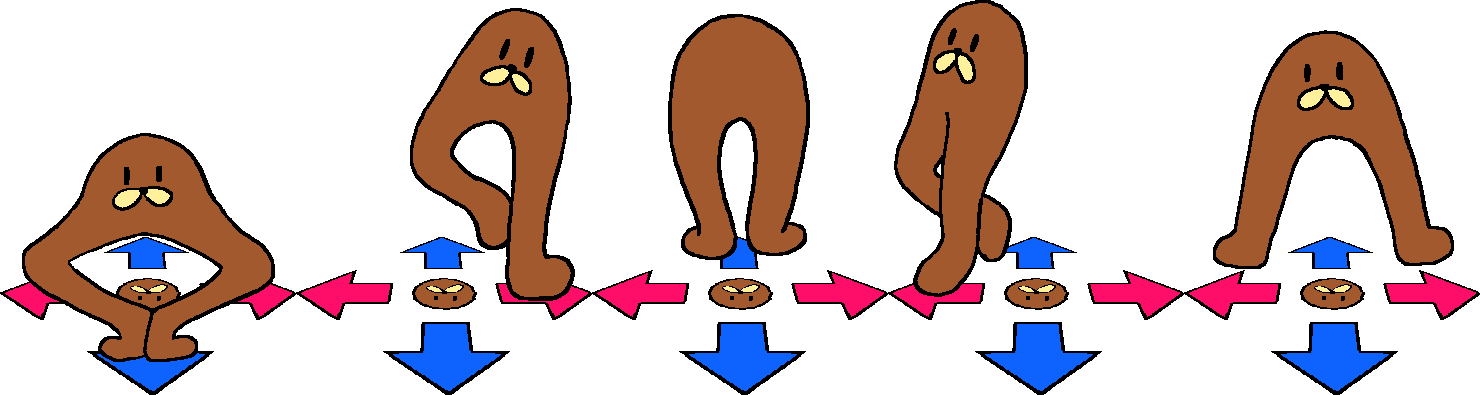
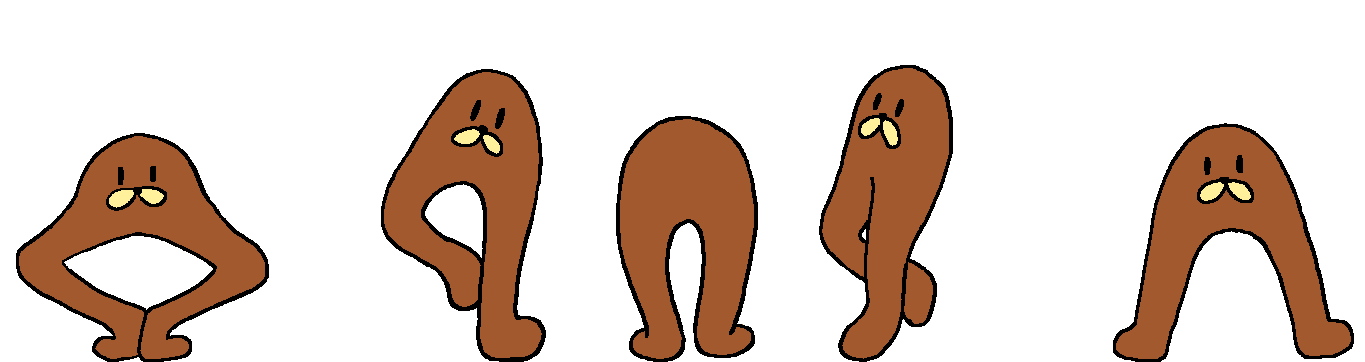
Make gondola bounce to the beat, minor refactoring

diff --git a/js/scenes/gonddr.js b/js/scenes/gonddr.js
@@ -13,6 +13,7 @@ class GonDDR extends Phaser.Scene {
 
 		this.hit_frame;   // Sprite of hit window
 		this.gondola;
+		this.dance_pad;
 
 		this.combo = 0;
 		this.score = 0;
@@ -60,15 +61,13 @@ class GonDDR extends Phaser.Scene {
 
 		this.feedback_array = [];
 
-		this.tweens.add({ targets:this.gondola, alpha:1, duration:1, delay:10});
-
 	}
 
 	// Main game loop
 	update () {
 		let time_ms = Date.now() - this.start_time;
 
-		let this_tick = this.time_to_tick(time_ms);
+		let this_tick = ms_to_tick(time_ms, this.tps);
 
 		this.handle_beat(this_tick);
 		this.update_arrows(this_tick);
@@ -84,7 +83,7 @@ class GonDDR extends Phaser.Scene {
 		// Set starting BPM, beats per bar, and ticks per beat
 		this.bpm = this.song.properties.starting_bpm;  // Beats per minute
 		this.bpb = this.song.properties.beats_per_bar; // Beats per bar (determines fall time)
-		this.tpb = this.tps/(this.bpm/60)                // Ticks per beat
+		this.tpb = this.tps/(this.bpm/60)              // Ticks per beat
 
 		console.log("BPM: " + this.bpm + " Beats per bar: " + this.bpb);
 		console.log("Ticks per beat: " + this.tpb);
@@ -105,39 +104,50 @@ class GonDDR extends Phaser.Scene {
 	init_game_objects() {
 
 		// Create sprites
-		this.hit_frame = this.add.sprite(100, ARROW_HIT_Y, 'hit_frame', 0);
-		this.gondola = this.add.sprite(GONDOLA_X, GONDOLA_Y, 'gondola', Gondola_Poses.Neutral);
-		this.gondola.alpha=0;
+		this.hit_frame = this.add_starting_visual( this.add.sprite(100, ARROW_HIT_Y, 'hit_frame', 0) );
+
+		this.dance_pad = this.add_starting_visual( this.add.sprite(GONDOLA_X, GONDOLA_Y-40, 'dance_pad') );
+
+		this.gondola = this.add_starting_visual( this.add.sprite(GONDOLA_X, GONDOLA_Y + Gondola_Offsets.Neutral, 'gondola', Gondola_Poses.Neutral) );
+		this.gondola.setOrigin(0.5,1);
+		this.tweens.add({
+			targets: this.gondola,
+			scaleX: 1.05,
+			scaleY: 0.9,
+			ease: 'Sine.easeInOut',
+			duration: beat_to_ms(0.5, this.bpm),
+			repeat: -1,
+			yoyo: true
+		});
 
 		// Draw score info
-		this.score_text = this.add.text(SCORE_X, SCORE_Y, '0', {
+		this.score_text = this.add_starting_visual( this.add.text(SCORE_X, SCORE_Y, '0', {
 				fontSize: FEEDBACK_FONTSIZE_DEFAULT,
 				fill: FEEDBACK_COLOR_DEFAULT,
 				align: 'right'
-		});
+		}) );
 		this.score_text.setOrigin(1,1);
 	}
 
-	// Convert time in milliseconds to ticks
-	time_to_tick (ts_ms) {
-		return Math.floor(this.tps * ts_ms / 1000.);
+	add_starting_visual(game_object) {
+		game_object.alpha=0;
+		this.tweens.add({ targets:game_object, alpha:1, duration:1, delay:10});
+		return game_object;
 	}
 
 	handle_beat(this_tick) {
-		  let beat = this_tick/this.tpb;
-			if (this.song_idx < this.song["song"].length) {
-				let next_arrow = this.song["song"][this.song_idx];
-				if (beat >= next_arrow["beat"] - this.fall_to_hit_ticks / this.tpb) {
-					this.song_idx++;
-					next_arrow["arrows"].forEach((arrow, i) => {
-						this.arrows.push(new Arrow(this, ARROW_X[arrow.direction], ARROW_START_Y, this_tick, arrow.direction, 0)); // Push new arrow to array
-						this.add.existing(this.arrows[this.arrows.length-1]);
-					}); // Add new arrow to Phaser scene
-				}
+	    let beat = tick_to_beat(this_tick, this.tpb);
+		if (this.song_idx < this.song["song"].length) {
+			let next_arrow = this.song["song"][this.song_idx];
+			if (beat >= next_arrow["beat"] - this.fall_to_hit_ticks / this.tpb) {
+				this.song_idx++;
+				next_arrow["arrows"].forEach((arrow, i) => {
+					this.arrows.push(new Arrow(this, ARROW_X[arrow.direction], ARROW_START_Y, this_tick, arrow.direction, 0)); // Push new arrow to array
+					this.add.existing(this.arrows[this.arrows.length-1]);
+				}); // Add new arrow to Phaser scene
 			}
-
+		}
 	}
-
 
 	update_feedback(this_tick) {
 
@@ -145,11 +155,9 @@ class GonDDR extends Phaser.Scene {
 		this.feedback_array = this.feedback_array.filter((item, i) => {
 			var current_feedback = this.feedback_array[i];
 
-			//console.log(current_feedback.start_tick);
 			// Destroy feedback that is too old
 			if(this_tick - current_feedback.start_tick > FEEDBACK_LIFETIME) {
 				current_feedback.destroy();
-				//console.log(this.feedback_array.length);
 				return false;
 			}
 
@@ -263,11 +271,13 @@ class GonDDR extends Phaser.Scene {
 		for (const [direction, arrow_key] of Object.entries(this.arrow_keys)) {
 			if (arrow_key.isDown) {
 				this.gondola.setFrame(Gondola_Poses[direction]);
+				this.gondola.y = GONDOLA_Y + Gondola_Offsets[direction];
 				arrow_key_down = true;
 			}
 		}
 		if (!arrow_key_down) {
 			this.gondola.setFrame(Gondola_Poses.Neutral);
+			this.gondola.y = GONDOLA_Y + Gondola_Offsets.Neutral;
 		}
 	}
 
@@ -316,9 +326,10 @@ class GonDDR extends Phaser.Scene {
 
 	end_dance () {
 		function transition_to_endscreen() {
-			this.gondola.visible = false;
-			this.hit_frame.visible = false;
-			this.score_text.visible = false;
+			this.gondola.destroy();
+			this.dance_pad.destroy();
+			this.hit_frame.destroy();
+			this.score_text.destroy();
         	this.scene.transition({
 				target: 'endscreen',
 				duration: 1200,
@@ -326,9 +337,10 @@ class GonDDR extends Phaser.Scene {
 				data: {score: this.score}
 			});
 		}
+
 		this.time.delayedCall(500,
 			function() {
-				do_checkerboard(this, 'gonddr', transition_to_endscreen, this);
+				do_checkerboard(this, transition_to_endscreen, this);
 			}, [], this
 		);
 	}
@@ -342,10 +354,18 @@ const Gondola_Poses = {
 	Neutral: 4
 }
 
-const GONDOLA_WIDTH  = 296;
-const GONDOLA_HEIGHT = 395;
+const Gondola_Offsets = {
+	Up:      0,
+	Right:   -61,
+	Down:    -90,
+	Left:    -62,
+	Neutral: -95
+}
+
+const GONDOLA_WIDTH  = 273;
+const GONDOLA_HEIGHT = 362;
 const GONDOLA_X 	 = 480;
-const GONDOLA_Y      = 320;
+const GONDOLA_Y      = 480;
 
 const SCORE_X = WINDOW_WIDTH - 10;
 const SCORE_Y = WINDOW_HEIGHT - 10;

diff --git a/js/scenes/intro.js b/js/scenes/intro.js
@@ -69,7 +69,7 @@ class Intro extends Phaser.Scene {
 			callbackScope: this,
 			completeDelay: 2000,
 			onComplete: function (tween, targets) { 
-				do_checkerboard(this, 'gonddr', transition_to_gonddr, this); 
+				do_checkerboard(this, transition_to_gonddr, this); 
 			}
 		});
 		
@@ -80,7 +80,7 @@ class Intro extends Phaser.Scene {
 				scaleX: 1.5,
 				scaleY: 1.5,
 				duration: 300,
-				ease: 'Linear'
+				ease: 'Sine.easeInOut'
 			});
 			this.intro_fadeout.play();
 			this.logo_fadein.play();
@@ -89,7 +89,7 @@ class Intro extends Phaser.Scene {
 	}
 }
 
-function do_checkerboard(_this, target_scene_key, yoyo_func = null, yoyo_func_context = null) {
+function do_checkerboard(_this, yoyo_func = null, yoyo_func_context = null) {
 	var tiles = _this.add.group({ key: 'pink_tile', repeat: 99, setScale: { x: 0, y: 0 } });
 
     Phaser.Actions.GridAlign(tiles.getChildren(), {
@@ -117,6 +117,7 @@ function do_checkerboard(_this, target_scene_key, yoyo_func = null, yoyo_func_co
             repeat: 0,
             yoyo: true,
             hold: 300,
+            onComplete: child.destroy
         }
 
         if (j==0) {

diff --git a/js/scenes/boot.js b/js/scenes/boot.js
@@ -16,12 +16,13 @@ class Boot extends Phaser.Scene {
 
 		this.load.spritesheet('arrows', 'assets/arrows.png', {frameWidth: ARROW_SIZE, frameHeight: ARROW_SIZE});
 		this.load.spritesheet('hit_frame', 'assets/hit_frame.png', {frameWidth: ARROW_SIZE, frameHeight: ARROW_SIZE});
-		this.load.spritesheet('gondola', 'assets/gondancin.png', {frameWidth: GONDOLA_WIDTH, frameHeight: GONDOLA_HEIGHT})
+		this.load.spritesheet('gondola', 'assets/gondancin.png', {frameWidth: 273, frameHeight: GONDOLA_HEIGHT})
 
 		this.load.image('press_start', 'assets/press_start.png');
 		this.load.image('ggr_logo', 'assets/ggr_logo.png');
 		this.load.image('pink_tile', 'assets/pink_tile.png');
 		this.load.image('black_bg', 'assets/black_bg.png');
+		this.load.image('dance_pad', 'assets/dance_pad.png');
 
 		this.load.json('testdance', 'testdance.json');
 	}

diff --git a/js/utils.js b/js/utils.js
@@ -1,0 +1,12 @@
+// Convert time in milliseconds to ticks
+function ms_to_tick (ts_ms, tps) {
+	return Math.floor(tps * ts_ms / 1000.);
+}
+
+function tick_to_beat (tick, tpb) {
+	return tick/tpb;
+}
+
+function beat_to_ms(beat, bpm) {
+	return (beat/bpm) * 60. * 1000.;
+}

diff --git a/js/scenes/endscreen.js b/js/scenes/endscreen.js
@@ -56,7 +56,7 @@ class Endscreen extends Phaser.Scene {
 				moveBelow: true
 			});
 		}
-		do_checkerboard(this, 'gonddr', transition_to_gonddr, this); 
+		do_checkerboard(this, transition_to_gonddr, this); 
 	}
 }
 

diff --git a/index.html b/index.html
@@ -19,6 +19,7 @@
 
         <!-- Utilities -->
         <script src="js/main.js"></script>
+        <script src="js/utils.js"></script>
         <script src="js/settings.js"></script>
     </body>
 </html>
